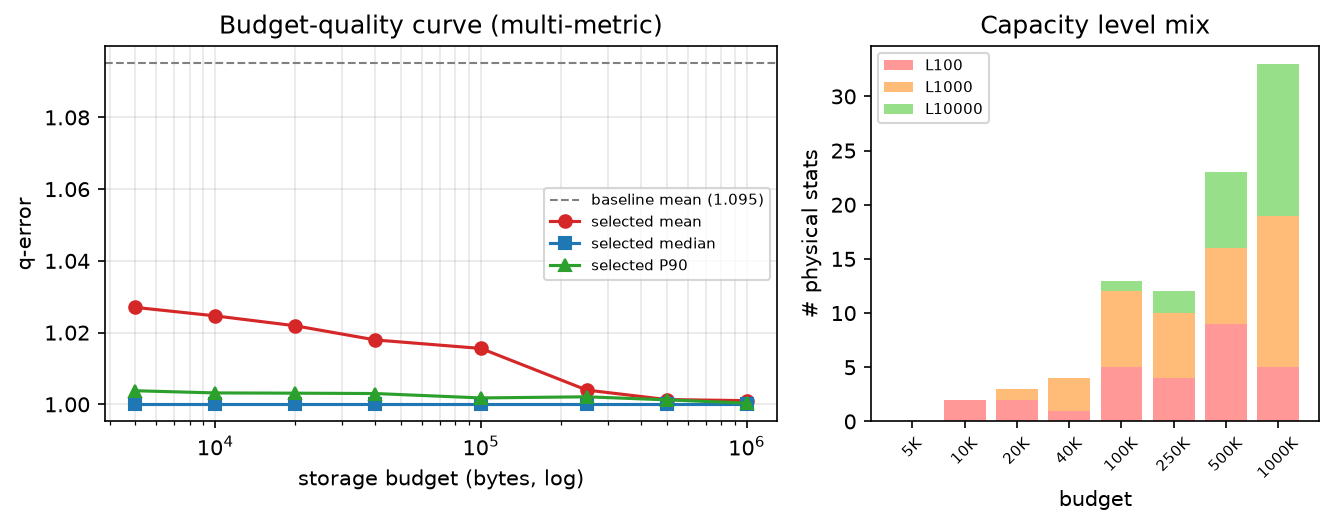
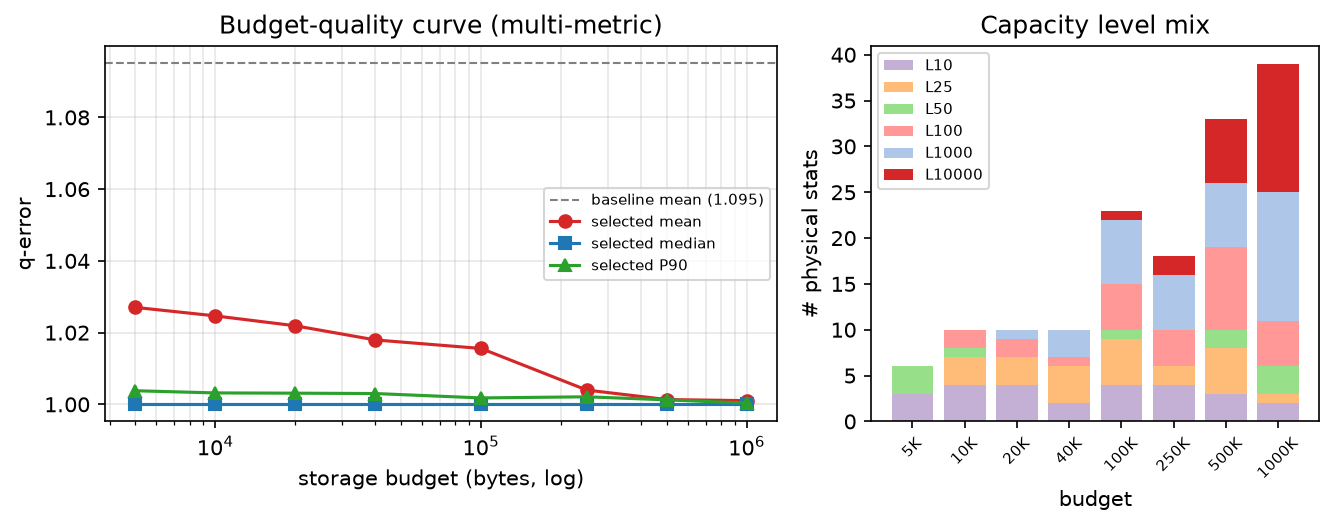
budget_quality: extend capacity-level mix from 3 to the full 6-level menu
analyze_budget_metrics.py hardcoded level_counts + the stacked bar to only
L100/L1000/L10000, so on the 6-level input a tight-budget solution that spends
on low capacity (L10/25/50) would count those statistics as '0' — mislabeling
the low-capacity axis (the paper's new two-sided-menu selling point).

- Generalize to LEVELS=['10','25','50','100','1000','10000'] in level_counts,
  the console report, and a loop-based stacked bar with per-level colors.
- Verified on 6level input: at 5KB the 6 selected stats are all L10/L50 (3+3),
  shifting to L1000/L10000 as budget grows — the low-capacity axis is now shown.
- Update fig:budgetquality caption to describe the two-sided menu, and note the
  low-capacity behavior under tight budgets.
- docs/reproducibility.md: note the 6-level level-mix and low-capacity behavior.
Regenerated paper/figures/budget_quality.{pdf,png} from 6level input.

diff --git a/scripts/analyze_budget_metrics.py b/scripts/analyze_budget_metrics.py
@@ -65,12 +65,15 @@ def main(argv: list[str] | None = None) -> int:
 
     base_metrics = summarize(qerror_base)
 
+    # full evaluated capacity menu (two-sided: below and above the PG default 100)
+    LEVELS = ["10", "25", "50", "100", "1000", "10000"]
+
     rows = []
     for B in budgets:
         res = solve_ilp(phys_stats, queries_options, qerror_base, B,
                         per_query_cap=1)
         sel_metrics = summarize(res.qerror_per_query)
-        level_counts = {"100": 0, "1000": 0, "10000": 0}
+        level_counts = {L: 0 for L in LEVELS}
         for ps in res.selected_stats:
             level_counts[str(ps.level)] = level_counts.get(str(ps.level), 0) + 1
         rows.append({
@@ -87,14 +90,15 @@ def main(argv: list[str] | None = None) -> int:
     print(f"baseline ({len(qerror_base)} queries): "
           f"mean={base_metrics['mean']:.4f} median={base_metrics['median']:.4f} "
           f"p90={base_metrics['p90']:.3f} max={base_metrics['max']:.1f}\n")
+    hdr_l = " ".join(f"L{x:>5}" for x in LEVELS)
     print(f"{'budget':>9} {'stats':>5} | {'mean':>7} {'median':>7} {'P90':>7} "
-          f"{'max':>7} | {'L100':>5} {'L1000':>6} {'L10000':>7}")
+          f"{'max':>7} | {hdr_l}")
     for r in rows:
         s = r["selected"]; lc = r["level_counts"]
+        cells = " ".join(f"{lc[L]:>6}" for L in LEVELS)
         print(f"{r['budget_bytes']:>9} {r['n_stats']:>5} | "
               f"{s['mean']:>7.3f} {s['median']:>7.3f} {s['p90']:>7.3f} "
-              f"{s['max']:>7.1f} | "
-              f"{lc['100']:>5} {lc['1000']:>6} {lc['10000']:>7}")
+              f"{s['max']:>7.1f} | {cells}")
 
     # ---- figure ----
     fig, (ax1, ax2) = plt.subplots(
@@ -115,15 +119,18 @@ def main(argv: list[str] | None = None) -> int:
     ax1.grid(True, which="both", alpha=0.3)
     ax1.legend(fontsize=7)
 
-    # stacked level distribution
-    L100 = [r["level_counts"]["100"] for r in rows]
-    L1000 = [r["level_counts"]["1000"] for r in rows]
-    L10000 = [r["level_counts"]["10000"] for r in rows]
+    # stacked level distribution over the full 6-level capacity menu
+    levels_colors = {
+        "10": "#c5b0d5", "25": "#ffbb78", "50": "#98df8a",
+        "100": "#ff9896", "1000": "#aec7e8", "10000": "#d62728",
+    }
     inds = np.arange(len(xs))
-    ax2.bar(inds, L100, color="#ff9896", label="L100")
-    ax2.bar(inds, L1000, bottom=L100, color="#ffbb78", label="L1000")
-    ax2.bar(inds, L10000, bottom=np.array(L100)+np.array(L1000),
-            color="#98df8a", label="L10000")
+    bottoms = np.zeros(len(xs))
+    for L in LEVELS:
+        counts = [r["level_counts"].get(L, 0) for r in rows]
+        ax2.bar(inds, counts, bottom=bottoms, color=levels_colors[L],
+                label=f"L{L}")
+        bottoms = bottoms + np.array(counts)
     ax2.set_xticks(inds)
     ax2.set_xticklabels([f"{b//1000}K" for b in xs], rotation=45, fontsize=7)
     ax2.set_xlabel("budget")

diff --git a/paper/main.tex b/paper/main.tex
@@ -1228,8 +1228,13 @@ distribution.
 \centering
 \includegraphics[width=\linewidth]{figures/budget_quality}
 \caption{Budget-quality curve (left) and capacity-level mix (right) on the full
-632-query stats\_CEB\_single workload. Mean, median and P90 all decrease; the
-level mix shows budget spent on capacity (L100/L1000/L10000), not just coverage.}
+632-query stats\_CEB\_single workload. Mean, median and P90 all decrease as the
+budget rises. The right panel shows the mix of chosen
+\texttt{statistics\_target} levels across the full two-sided menu
+$\{10,25,50,100,1000,10000\}$: under the tightest budgets the solver spends on
+\emph{low} capacity (L10/L25/L50) to fit many statistics, and shifts to
+\emph{high} capacity (L1000/L10000) as the budget grows --- capacity is a real
+allocation axis, not just coverage.}
 \label{fig:budgetquality}
 \end{figure}
 

diff --git a/docs/reproducibility.md b/docs/reproducibility.md
@@ -21,6 +21,11 @@
 > 用 6level 跑 `analyze_sparsity.py` 产生的覆盖率/稀疏指标与 multi 逐位相同
 > （coverage_median=0.999, frac_ge_0_9=0.9429, frac_ge_0_99=0.7714）。
 
+> `analyze_budget_metrics.py` 的右侧 level-mix 图展示**完整 6 档**容量菜单
+> {10,25,50,100,1000,10000}（脚本 `LEVELS` 常量）。在最小预算下解会选择低档
+> （如 5KB 时 6 个物理统计全部落在 L10/L50），随预算升级到 L1000/L10000 ——
+> 这是"降容量省钱"决策轴的可视化，取代了旧的 3 档 hardcode。
+
 | 论文图 | 复现脚本 | 生成命令 |
 |---|---|---|
 | `figures/sparsity_cdf`（稀疏 regime CDF） | `scripts/analyze_sparsity.py` | `python scripts/analyze_sparsity.py --input results/phase1_ceb_single_mask_6level.json --out results/p4_sparsity.json --fig paper/figures/sparsity_cdf` |
